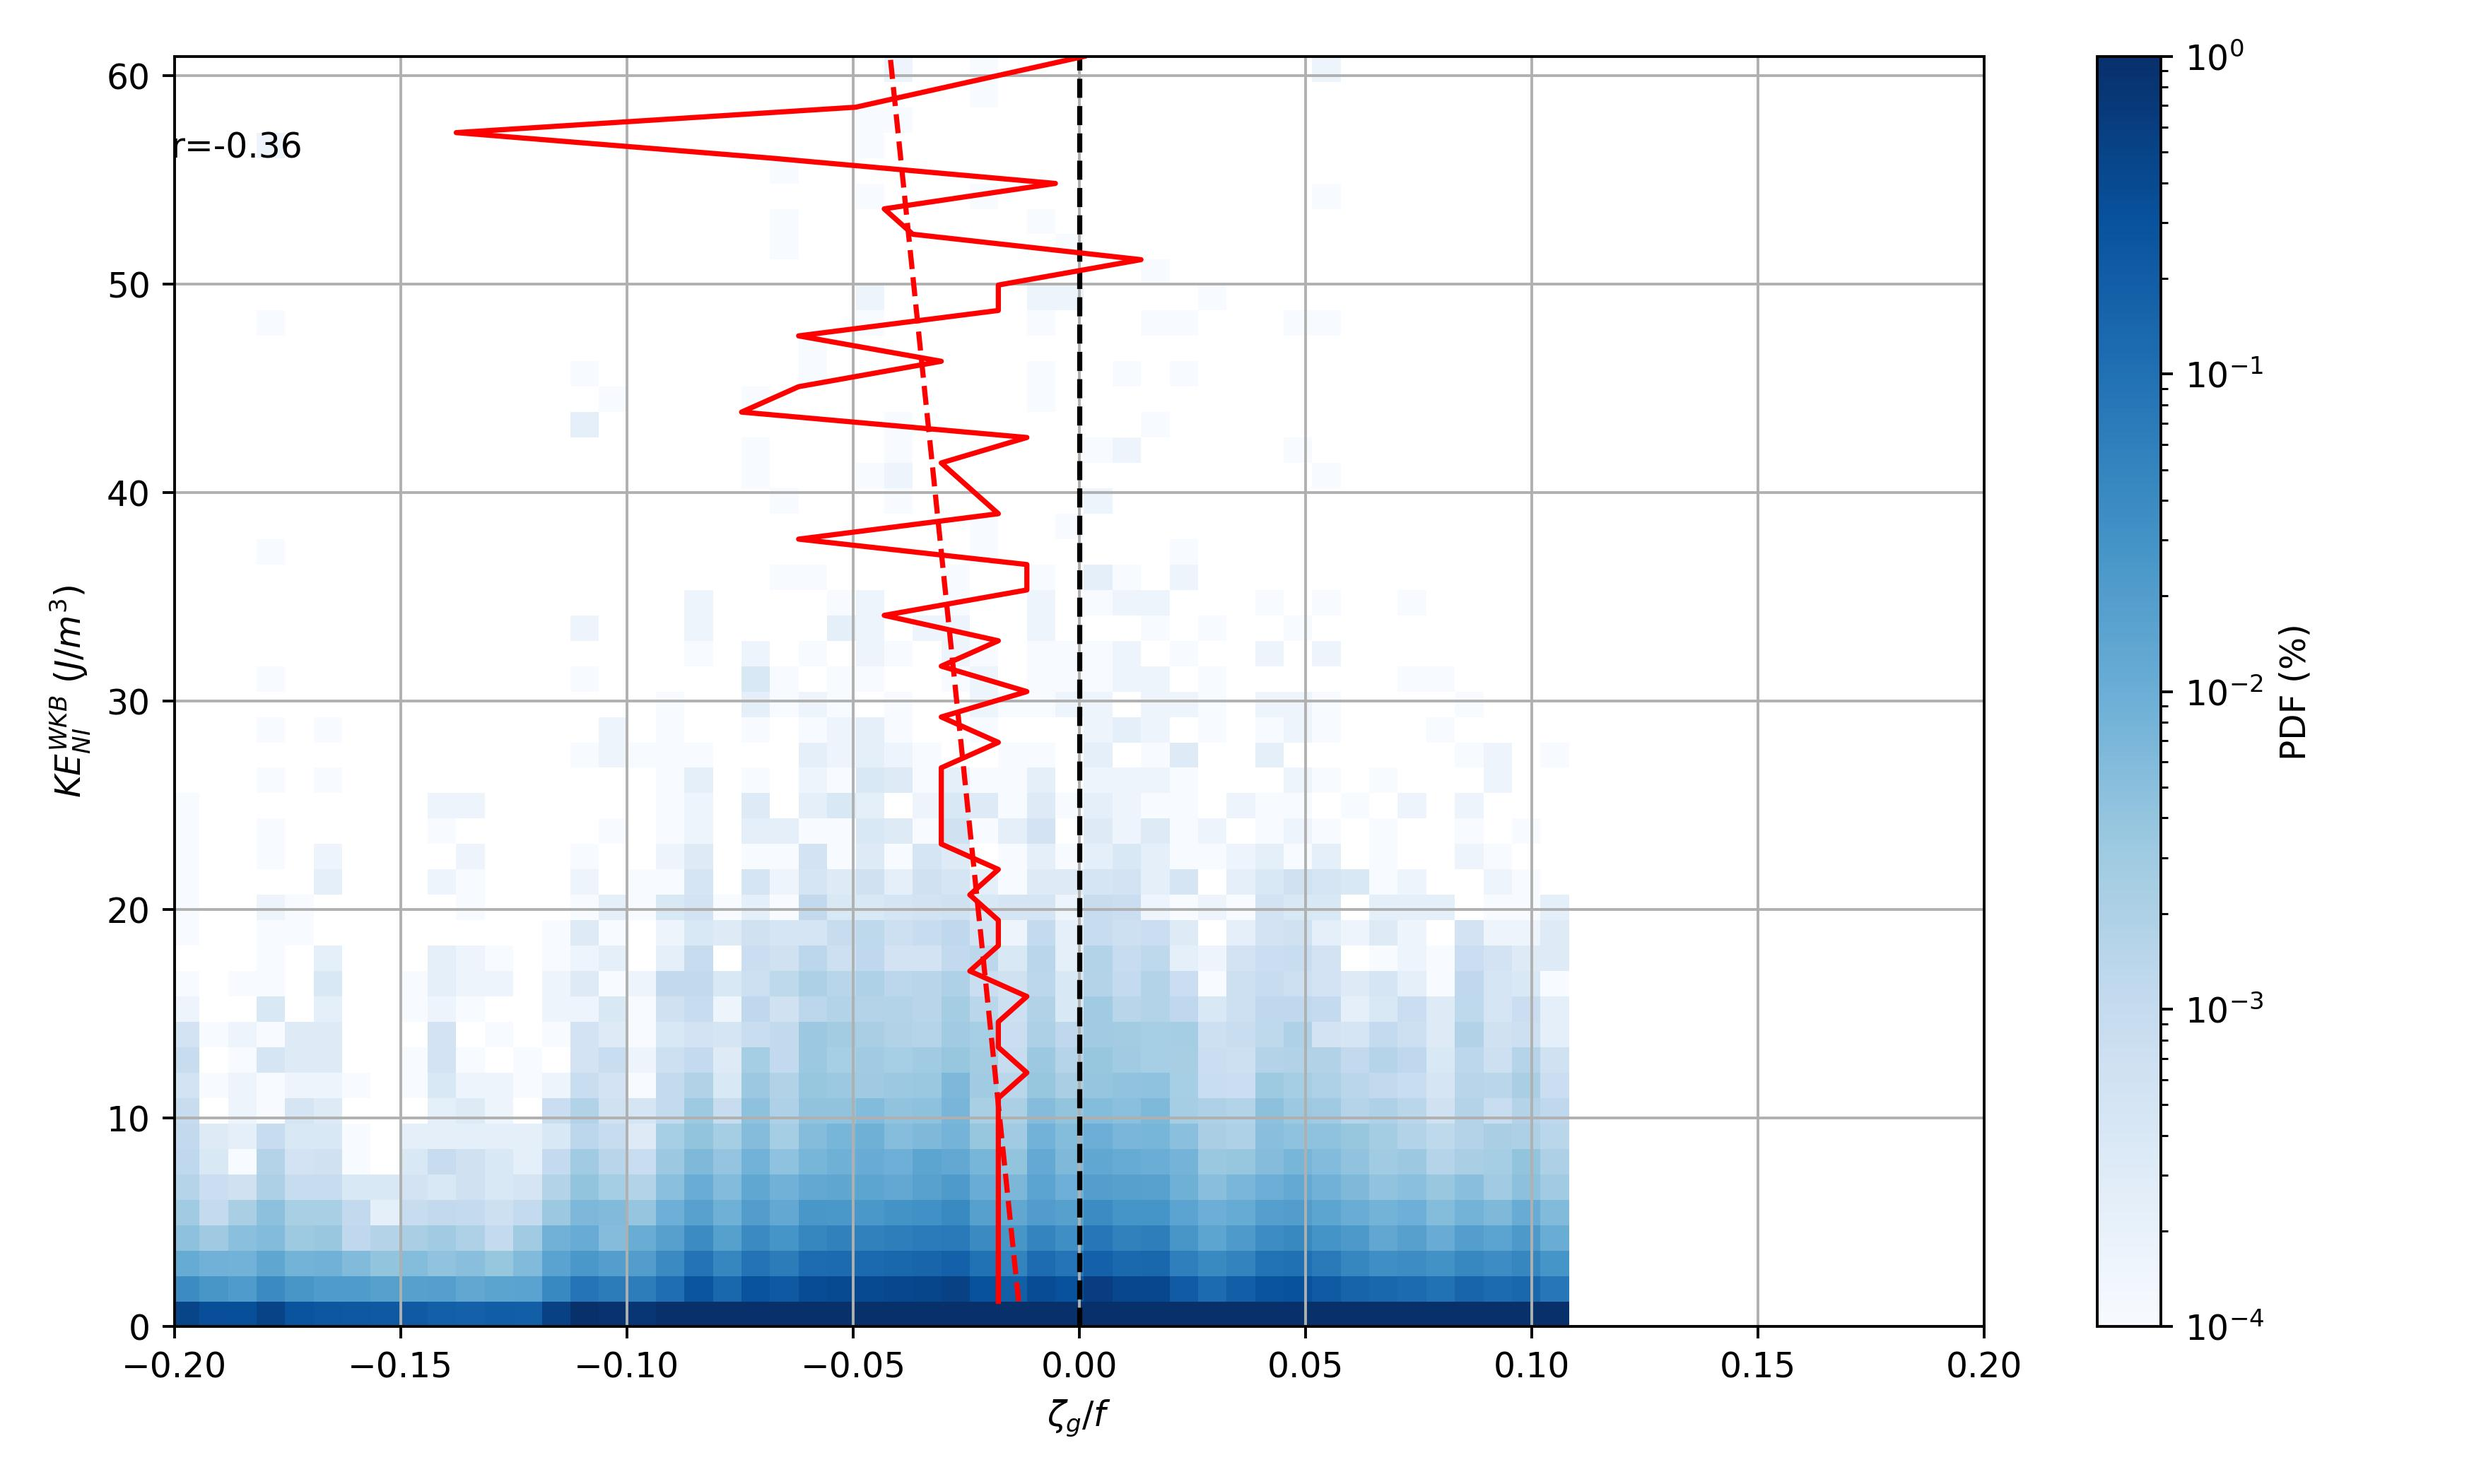
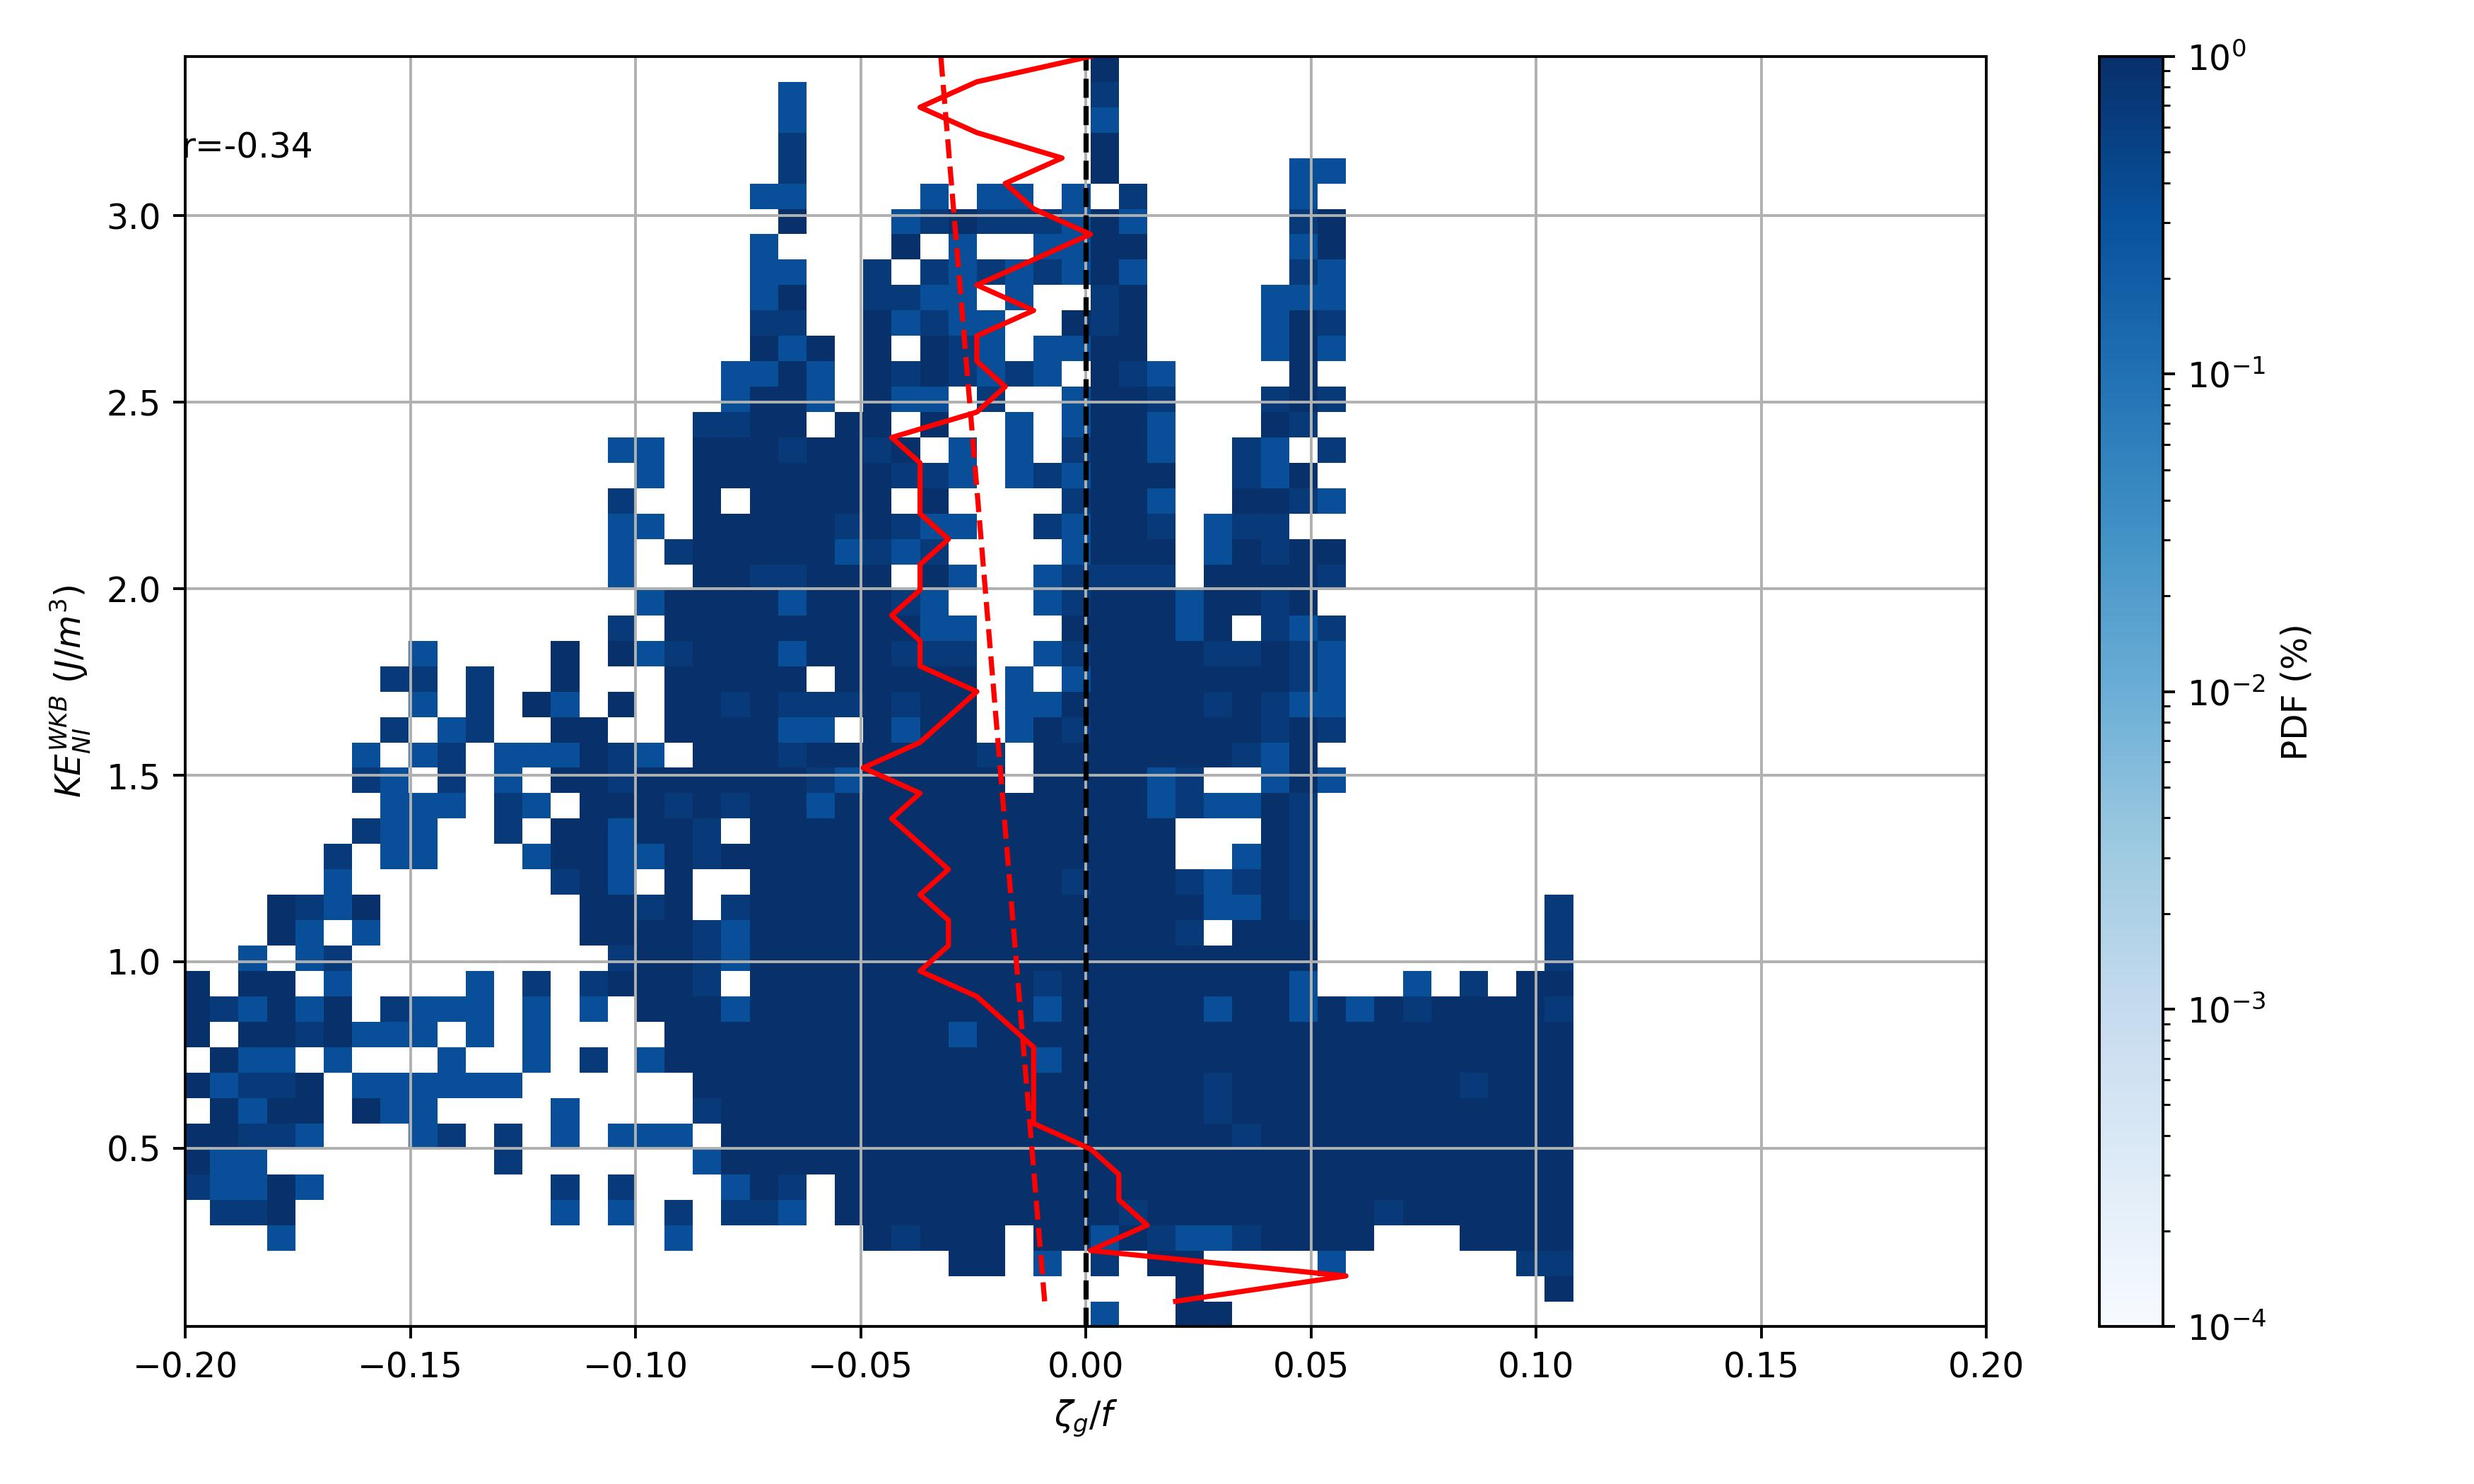
daily20250225

diff --git a/Plot_PDF.py b/Plot_PDF.py
@@ -15,9 +15,9 @@ lat_moor = 36.23
 fi = 2 * 7.292e-5 * np.sin(lat_moor/180*np.pi)
 vf = vorticity_moor / fi
 # ----------plot the PDF----------
-# KE_ni_dinteg = np.trapz(KE_ni, -depth) / 1000
-KE_ni_flat = KE_ni.flatten()
-vf = np.tile(vf, KE_ni.shape[1])
+KE_ni_dinteg = np.trapz(KE_ni, -depth) / 1000
+KE_ni_flat = KE_ni_dinteg.flatten()
+# vf = np.tile(vf, KE_ni.shape[1])
 vf_flat = vf[~np.isnan(KE_ni_flat)]
 KE_ni_flat = KE_ni_flat[~np.isnan(KE_ni_flat)]
 
@@ -60,7 +60,7 @@ plt.xlabel(r'$\zeta_g/f$')
 plt.ylabel(r'$KE_{NI}^{WKB}$ $(J/m^{3})$')
 plt.grid(True)
 plt.tight_layout()
-plt.savefig(r'figures\PDF_withDataGLORYS.jpg', dpi=350)
+# plt.savefig(r'figures\PDF_withDataGLORYS.jpg', dpi=350)
 plt.show()
 # ----------plot the vorticity and KE_ni---------
 fig = plt.figure(figsize=(10, 8))

diff --git a/Plot_PDF_withDataGLORYS.py b/Plot_PDF_withDataGLORYS.py
@@ -43,7 +43,7 @@ plt.xlabel(r'$\zeta_g/f$')
 plt.ylabel(r'$KE_{NI}^{WKB}$ $(J/m^{3})$')
 plt.grid(True)
 plt.tight_layout()
-plt.savefig(r'figures\PDF_withDataGLORYS_layers.jpg', dpi=350)
+# plt.savefig(r'figures\PDF_withDataGLORYS_layers.jpg', dpi=350)
 plt.show()
 # for debugging
 print('c')
